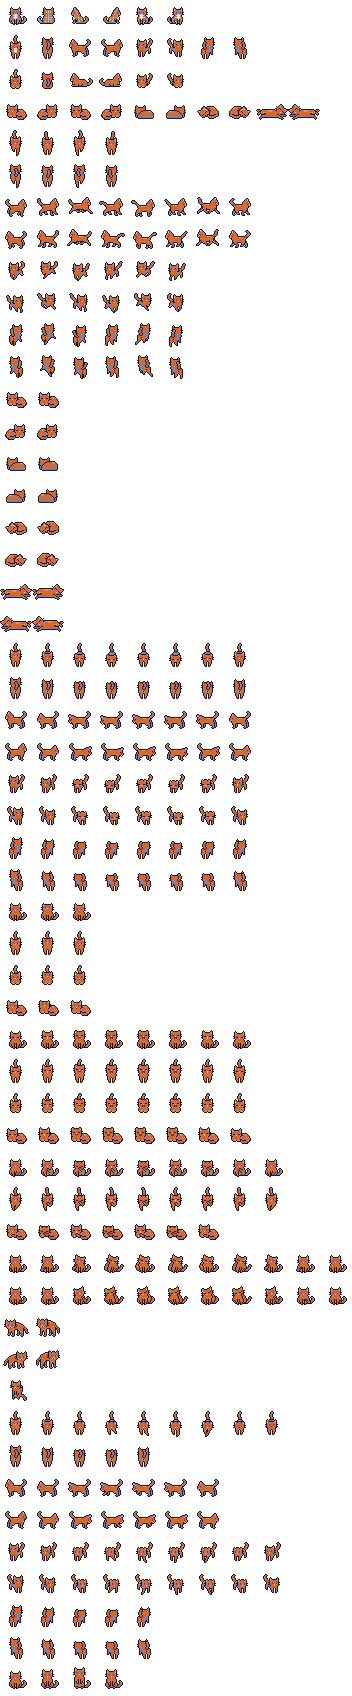
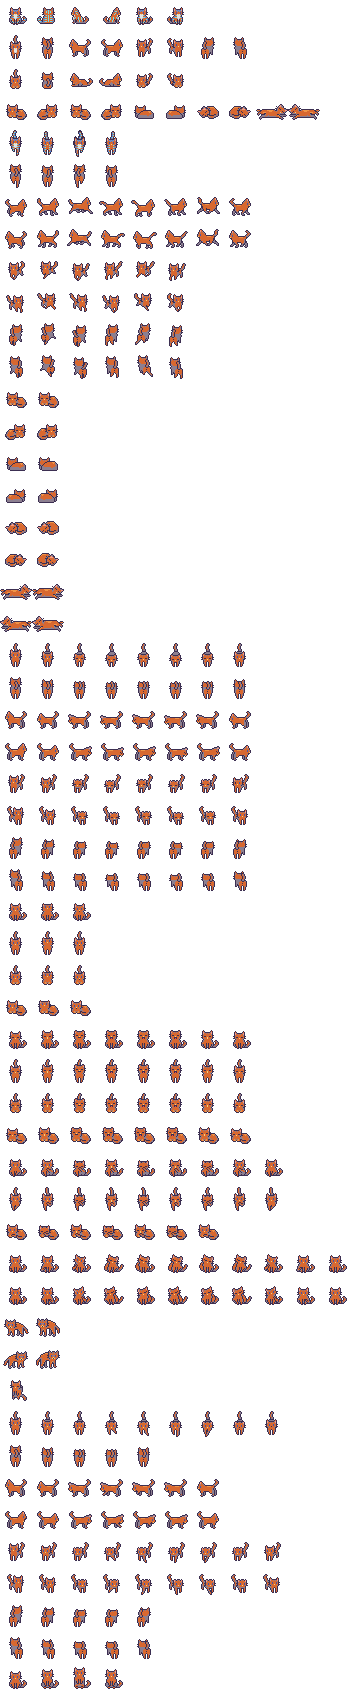
edited Art

diff --git a/game/scripts/Player.cs b/game/scripts/Player.cs
@@ -52,7 +52,7 @@ public partial class Player : Area2D {
             }
         }
         else if (vertical != "" ^ horizontal != "") {
-            direction = vertical + horizontal; // Falls nur eine Achse aktiv ist (z.B. nur "north" oder "east")
+            direction = vertical + horizontal; 
             
             if (horizontal != "") {
                 _lastDirection = horizontal;
@@ -73,7 +73,10 @@ public partial class Player : Area2D {
         }
         else
         {
-            animatedSprite2D.Play($"sitting_{_lastDirection}");
+            if (_lastDirection != "") {
+                animatedSprite2D.Play($"sitting_{_lastDirection}");
+            }
+            
             animatedSprite2D.Stop();
         }
         
